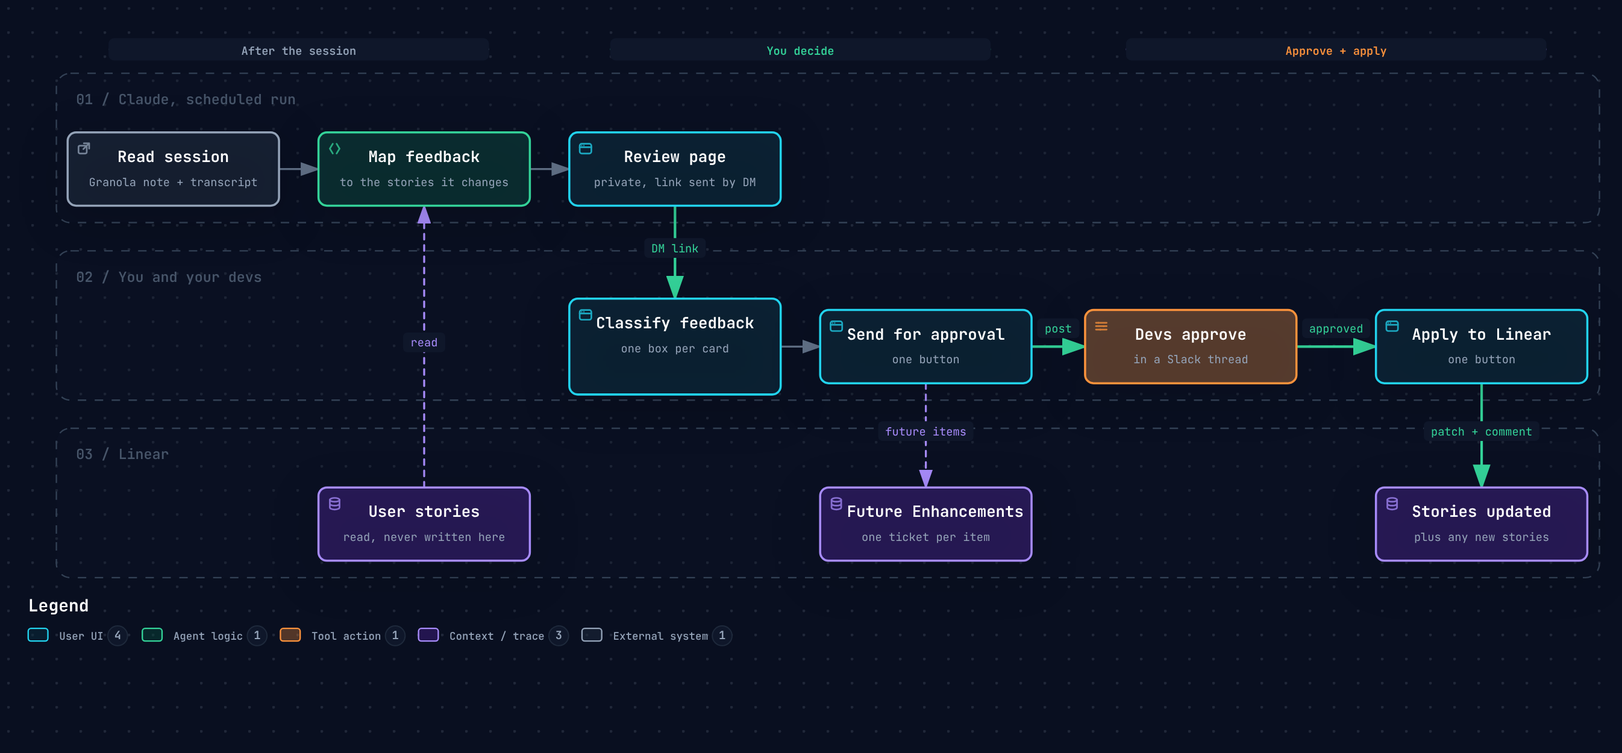
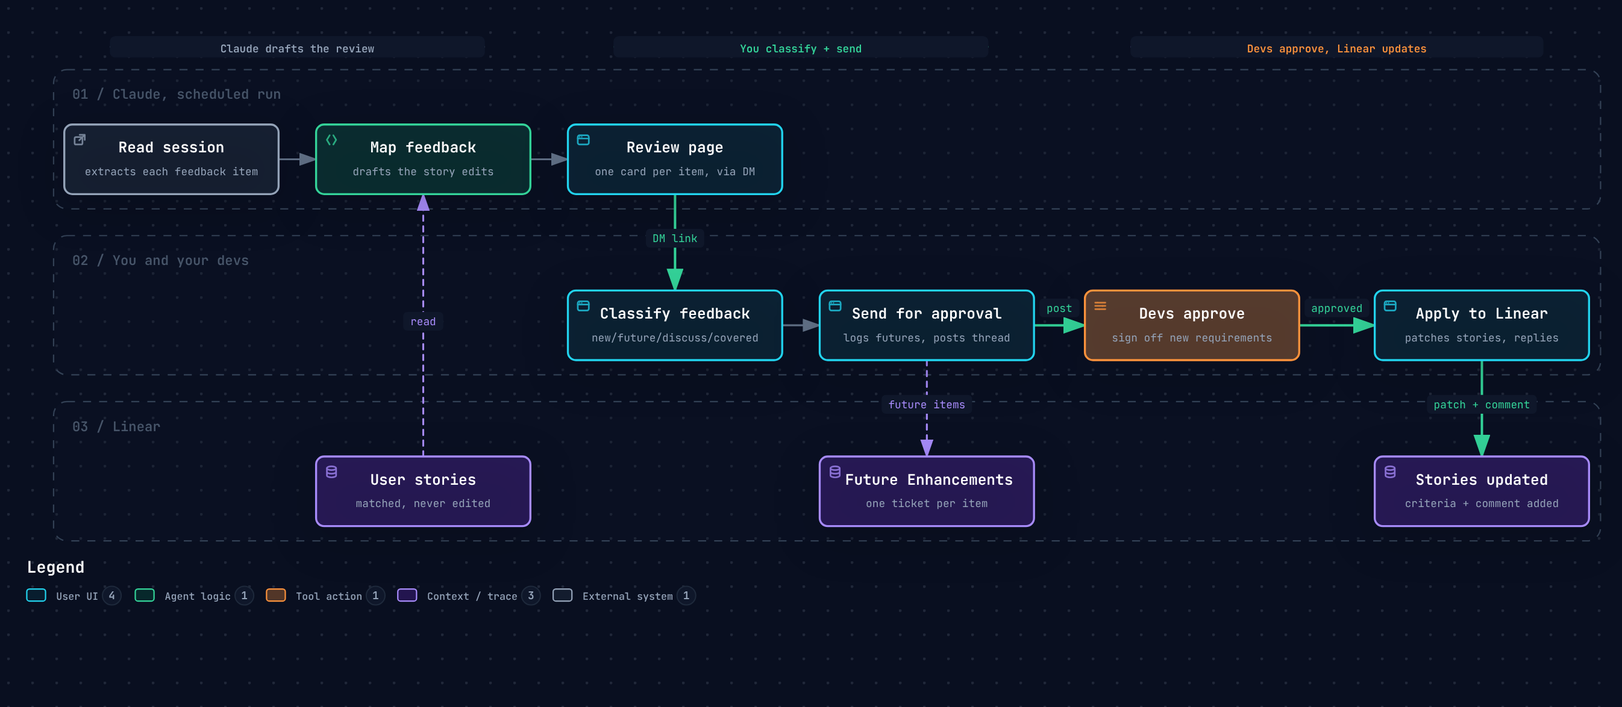
README and diagram: step labels that say what happens
Claude-Session: https://claude.ai/code/session_01LU9MfgfQ5tnmT1qxG3KnMi

diff --git a/docs/flow.html b/docs/flow.html
@@ -4987,7 +4987,7 @@ OTHER DEALINGS IN THE FONT SOFTWARE.
     <!-- Main Diagram -->
     <div class="diagram-container" data-detail-level="read"
          data-preset-badge-editorial-plate="ARCHIFY / PLATE 04">
-      <svg viewBox="0 0 1151 534" data-layout-contract="readable-v2" role="img" lang="en" aria-labelledby="archify-diagram-title archify-diagram-description" data-preset="classic" data-quality-profile="showcase">
+      <svg viewBox="0 0 1211 528" data-layout-contract="readable-v2" role="img" lang="en" aria-labelledby="archify-diagram-title archify-diagram-description" data-preset="classic" data-quality-profile="showcase">
         <title id="archify-diagram-title">feedback-review: one week, one session</title>
         <desc id="archify-diagram-description">A workflow diagram generated by Archify.</desc>
         <!-- Definitions -->
@@ -5013,222 +5013,221 @@ OTHER DEALINGS IN THE FONT SOFTWARE.
         <rect width="100%" height="100%" fill="url(#grid)" />
 
         <!-- Swimlanes -->
-        <rect data-graph-role="structural-frame" data-composition-frame-kind="lane" data-composition-frame-id="lane-0" x="40" y="52" width="1095" height="106" rx="10" class="c-lane" stroke-width="1"/>
+        <rect data-graph-role="structural-frame" data-composition-frame-kind="lane" data-composition-frame-id="lane-0" x="40" y="52" width="1155" height="104" rx="10" class="c-lane" stroke-width="1"/>
         <text x="54" y="74" class="t-dim" font-size="10" font-weight="600">01 / Claude, scheduled run</text>
 
-        <rect data-graph-role="structural-frame" data-composition-frame-kind="lane" data-composition-frame-id="lane-1" x="40" y="178" width="1095" height="106" rx="10" class="c-lane" stroke-width="1"/>
-        <text x="54" y="200" class="t-dim" font-size="10" font-weight="600">02 / You and your devs</text>
+        <rect data-graph-role="structural-frame" data-composition-frame-kind="lane" data-composition-frame-id="lane-1" x="40" y="176" width="1155" height="104" rx="10" class="c-lane" stroke-width="1"/>
+        <text x="54" y="198" class="t-dim" font-size="10" font-weight="600">02 / You and your devs</text>
 
-        <rect data-graph-role="structural-frame" data-composition-frame-kind="lane" data-composition-frame-id="lane-2" x="40" y="304" width="1095" height="106" rx="10" class="c-lane" stroke-width="1"/>
-        <text x="54" y="326" class="t-dim" font-size="10" font-weight="600">03 / Linear</text>
+        <rect data-graph-role="structural-frame" data-composition-frame-kind="lane" data-composition-frame-id="lane-2" x="40" y="300" width="1155" height="104" rx="10" class="c-lane" stroke-width="1"/>
+        <text x="54" y="322" class="t-dim" font-size="10" font-weight="600">03 / Linear</text>
 
         <!-- Phase headers -->
-        <line x1="77" y1="35" x2="347" y2="35" class="a-default" stroke-width="1.1"/>
-        <rect x="77" y="27" width="270" height="16" rx="4" class="c-mask"/>
-        <text x="212" y="39" class="t-muted" font-size="8" font-weight="600" text-anchor="middle">After the session</text>
-        <line x1="433" y1="35" x2="703" y2="35" class="a-emphasis" stroke-width="1.1"/>
-        <rect x="433" y="27" width="270" height="16" rx="4" class="c-mask"/>
-        <text x="568" y="39" class="t-backend" font-size="8" font-weight="600" text-anchor="middle">You decide</text>
-        <line x1="799" y1="35" x2="1097.4" y2="35" class="a-dashed" stroke-width="1.1"/>
-        <rect x="799" y="27" width="298.4000000000001" height="16" rx="4" class="c-mask"/>
-        <text x="948.2" y="39" class="t-messagebus" font-size="8" font-weight="600" text-anchor="middle">Approve + apply</text>
+        <line x1="82" y1="35" x2="362" y2="35" class="a-default" stroke-width="1.1"/>
+        <rect x="82" y="27" width="280" height="16" rx="4" class="c-mask"/>
+        <text x="222" y="39" class="t-muted" font-size="8" font-weight="600" text-anchor="middle">Claude drafts the review</text>
+        <line x1="458" y1="35" x2="738" y2="35" class="a-emphasis" stroke-width="1.1"/>
+        <rect x="458" y="27" width="280" height="16" rx="4" class="c-mask"/>
+        <text x="598" y="39" class="t-backend" font-size="8" font-weight="600" text-anchor="middle">You classify + send</text>
+        <line x1="844" y1="35" x2="1152.4" y2="35" class="a-dashed" stroke-width="1.1"/>
+        <rect x="844" y="27" width="308.4000000000001" height="16" rx="4" class="c-mask"/>
+        <text x="998.2" y="39" class="t-messagebus" font-size="8" font-weight="600" text-anchor="middle">Devs approve, Linear updates</text>
 
         <!-- Workflow groups -->
 
 
         <!-- Edge paths -->
-        <path data-edge-from="apply" data-edge-to="updated" data-edge-label="patch + comment" data-edge-key="0" data-edge-id="apply-updated" data-composition-routing="workflow-v2-auto" data-edge-role="" data-composition-points="1051.4,272;1051.4,346" d="M 1051.4 272 L 1051.4 346" class="a-emphasis" stroke-width="1.8" marker-end="url(#arrowhead-emphasis)"/>
-        <path data-edge-from="classify" data-edge-to="send" data-edge-key="1" data-edge-id="classify-send" data-composition-routing="workflow-v2-auto" data-edge-role="" data-composition-points="554,246;582,246" d="M 554 246 L 582 246" class="a-default" stroke-width="1.4" marker-end="url(#arrowhead)"/>
-        <path data-edge-from="map" data-edge-to="page" data-edge-key="2" data-edge-id="map-page" data-composition-routing="workflow-v2-auto" data-edge-role="" data-composition-points="376,120;404,120" d="M 376 120 L 404 120" class="a-default" stroke-width="1.4" marker-end="url(#arrowhead)"/>
-        <path data-edge-from="page" data-edge-to="classify" data-edge-label="DM link" data-edge-key="3" data-edge-id="page-classify" data-composition-routing="workflow-v2-auto" data-edge-role="" data-composition-points="479,146;479,212" d="M 479 146 L 479 212" class="a-emphasis" stroke-width="1.8" marker-end="url(#arrowhead-emphasis)"/>
-        <path data-edge-from="read" data-edge-to="map" data-edge-key="4" data-edge-id="read-map" data-composition-routing="workflow-v2-auto" data-edge-role="" data-composition-points="198,120;226,120" d="M 198 120 L 226 120" class="a-default" stroke-width="1.4" marker-end="url(#arrowhead)"/>
-        <path data-edge-from="send" data-edge-to="future" data-edge-label="future items" data-edge-key="5" data-edge-id="send-future" data-composition-routing="workflow-v2-auto" data-edge-role="branch" data-composition-points="657,272;657,346" d="M 657 272 L 657 346" class="a-dashed" stroke-width="1.4" marker-end="url(#arrowhead-dashed)"/>
-        <path data-edge-from="send" data-edge-to="thread" data-edge-label="post" data-edge-key="6" data-edge-id="send-thread" data-composition-routing="workflow-v2-auto" data-edge-role="" data-composition-points="732,246;770,246" d="M 732 246 L 770 246" class="a-emphasis" stroke-width="1.8" marker-end="url(#arrowhead-emphasis)"/>
-        <path data-edge-from="stories" data-edge-to="map" data-edge-label="read" data-edge-key="7" data-edge-id="stories-map" data-composition-routing="workflow-v2-auto" data-edge-role="branch" data-composition-points="301,346;301,146" d="M 301 346 L 301 146" class="a-dashed" stroke-width="1.4" marker-end="url(#arrowhead-dashed)"/>
-        <path data-edge-from="thread" data-edge-to="apply" data-edge-label="approved" data-edge-key="8" data-edge-id="thread-apply" data-composition-routing="workflow-v2-auto" data-edge-role="" data-composition-points="920,246;976.4000000000001,246" d="M 920 246 L 976.4000000000001 246" class="a-emphasis" stroke-width="1.8" marker-end="url(#arrowhead-emphasis)"/>
+        <path data-edge-from="apply" data-edge-to="updated" data-edge-label="patch + comment" data-edge-key="0" data-edge-id="apply-updated" data-composition-routing="workflow-v2-auto" data-edge-role="" data-composition-points="1106.4,269;1106.4,341" d="M 1106.4 269 L 1106.4 341" class="a-emphasis" stroke-width="1.8" marker-end="url(#arrowhead-emphasis)"/>
+        <path data-edge-from="classify" data-edge-to="send" data-edge-key="1" data-edge-id="classify-send" data-composition-routing="workflow-v2-auto" data-edge-role="" data-composition-points="584,243;612,243" d="M 584 243 L 612 243" class="a-default" stroke-width="1.4" marker-end="url(#arrowhead)"/>
+        <path data-edge-from="map" data-edge-to="page" data-edge-key="2" data-edge-id="map-page" data-composition-routing="workflow-v2-auto" data-edge-role="" data-composition-points="396,119;424,119" d="M 396 119 L 424 119" class="a-default" stroke-width="1.4" marker-end="url(#arrowhead)"/>
+        <path data-edge-from="page" data-edge-to="classify" data-edge-label="DM link" data-edge-key="3" data-edge-id="page-classify" data-composition-routing="workflow-v2-auto" data-edge-role="" data-composition-points="504,145;504,217" d="M 504 145 L 504 217" class="a-emphasis" stroke-width="1.8" marker-end="url(#arrowhead-emphasis)"/>
+        <path data-edge-from="read" data-edge-to="map" data-edge-key="4" data-edge-id="read-map" data-composition-routing="workflow-v2-auto" data-edge-role="" data-composition-points="208,119;236,119" d="M 208 119 L 236 119" class="a-default" stroke-width="1.4" marker-end="url(#arrowhead)"/>
+        <path data-edge-from="send" data-edge-to="future" data-edge-label="future items" data-edge-key="5" data-edge-id="send-future" data-composition-routing="workflow-v2-auto" data-edge-role="branch" data-composition-points="692,269;692,341" d="M 692 269 L 692 341" class="a-dashed" stroke-width="1.4" marker-end="url(#arrowhead-dashed)"/>
+        <path data-edge-from="send" data-edge-to="thread" data-edge-label="post" data-edge-key="6" data-edge-id="send-thread" data-composition-routing="workflow-v2-auto" data-edge-role="" data-composition-points="772,243;810,243" d="M 772 243 L 810 243" class="a-emphasis" stroke-width="1.8" marker-end="url(#arrowhead-emphasis)"/>
+        <path data-edge-from="stories" data-edge-to="map" data-edge-label="read" data-edge-key="7" data-edge-id="stories-map" data-composition-routing="workflow-v2-auto" data-edge-role="branch" data-composition-points="316,341;316,145" d="M 316 341 L 316 145" class="a-dashed" stroke-width="1.4" marker-end="url(#arrowhead-dashed)"/>
+        <path data-edge-from="thread" data-edge-to="apply" data-edge-label="approved" data-edge-key="8" data-edge-id="thread-apply" data-composition-routing="workflow-v2-auto" data-edge-role="" data-composition-points="970,243;1026.4,243" d="M 970 243 L 1026.4 243" class="a-emphasis" stroke-width="1.8" marker-end="url(#arrowhead-emphasis)"/>
 
         <!-- Nodes -->
-        <g id="node-read" data-node-id="read" data-node-label="Read session" tabindex="0" role="button" aria-label="Focus Read session, Granola note + transcript, Claude, scheduled run › After the session" aria-pressed="false" data-node-kind="external" data-node-sublabel="Granola note + transcript" data-node-context="Claude, scheduled run › After the session">
-          <title>Read session · Granola note + transcript · Claude, scheduled run › After the session</title>
-          <rect x="48" y="94" width="150" height="52" rx="6" class="c-mask"/>
-          <rect x="48" y="94" width="150" height="52" rx="6" class="c-external" stroke-width="1.5"/>
-          <g aria-hidden="true" data-semantic-sigil="external" class="semantic-sigil s-external" transform="translate(54 100) scale(0.6875)">
+        <g id="node-read" data-node-id="read" data-node-label="Read session" tabindex="0" role="button" aria-label="Focus Read session, extracts each feedback item, Claude, scheduled run › Claude drafts the review" aria-pressed="false" data-node-kind="external" data-node-sublabel="extracts each feedback item" data-node-context="Claude, scheduled run › Claude drafts the review">
+          <title>Read session · extracts each feedback item · Claude, scheduled run › Claude drafts the review</title>
+          <rect x="48" y="93" width="160" height="52" rx="6" class="c-mask"/>
+          <rect x="48" y="93" width="160" height="52" rx="6" class="c-external" stroke-width="1.5"/>
+          <g aria-hidden="true" data-semantic-sigil="external" class="semantic-sigil s-external" transform="translate(54 99) scale(0.6875)">
             <rect x="2.5" y="5" width="8.5" height="8" rx="1.5"/>
             <path d="M8 2.5h5.5V8M13.5 2.5 7.5 8.5"/>
           </g>
-          <text data-node-label="" data-detail-anchor="" x="123" y="115" class="t-primary" font-size="11" font-weight="600" text-anchor="middle">Read session</text>
-          <text data-detail="context" x="123" y="132" class="t-muted" font-size="8" text-anchor="middle">Granola note + transcript</text>
+          <text data-node-label="" data-detail-anchor="" x="128" y="114" class="t-primary" font-size="11" font-weight="600" text-anchor="middle">Read session</text>
+          <text data-detail="context" x="128" y="131" class="t-muted" font-size="8" text-anchor="middle">extracts each feedback item</text>
         </g>
 
-        <g id="node-map" data-node-id="map" data-node-label="Map feedback" tabindex="0" role="button" aria-label="Focus Map feedback, to the stories it changes, Claude, scheduled run › After the session" aria-pressed="false" data-node-kind="backend" data-node-sublabel="to the stories it changes" data-node-context="Claude, scheduled run › After the session">
-          <title>Map feedback · to the stories it changes · Claude, scheduled run › After the session</title>
-          <rect x="226" y="94" width="150" height="52" rx="6" class="c-mask"/>
-          <rect x="226" y="94" width="150" height="52" rx="6" class="c-backend" stroke-width="1.5"/>
-          <g aria-hidden="true" data-semantic-sigil="backend" class="semantic-sigil s-backend" transform="translate(232 100) scale(0.6875)">
+        <g id="node-map" data-node-id="map" data-node-label="Map feedback" tabindex="0" role="button" aria-label="Focus Map feedback, drafts the story edits, Claude, scheduled run › Claude drafts the review" aria-pressed="false" data-node-kind="backend" data-node-sublabel="drafts the story edits" data-node-context="Claude, scheduled run › Claude drafts the review">
+          <title>Map feedback · drafts the story edits · Claude, scheduled run › Claude drafts the review</title>
+          <rect x="236" y="93" width="160" height="52" rx="6" class="c-mask"/>
+          <rect x="236" y="93" width="160" height="52" rx="6" class="c-backend" stroke-width="1.5"/>
+          <g aria-hidden="true" data-semantic-sigil="backend" class="semantic-sigil s-backend" transform="translate(242 99) scale(0.6875)">
             <path d="M6 3 3 8l3 5M10 3l3 5-3 5"/>
           </g>
-          <text data-node-label="" data-detail-anchor="" x="301" y="115" class="t-primary" font-size="11" font-weight="600" text-anchor="middle">Map feedback</text>
-          <text data-detail="context" x="301" y="132" class="t-muted" font-size="8" text-anchor="middle">to the stories it changes</text>
+          <text data-node-label="" data-detail-anchor="" x="316" y="114" class="t-primary" font-size="11" font-weight="600" text-anchor="middle">Map feedback</text>
+          <text data-detail="context" x="316" y="131" class="t-muted" font-size="8" text-anchor="middle">drafts the story edits</text>
         </g>
 
-        <g id="node-page" data-node-id="page" data-node-label="Review page" tabindex="0" role="button" aria-label="Focus Review page, private, link sent by DM, Claude, scheduled run › You decide" aria-pressed="false" data-node-kind="frontend" data-node-sublabel="private, link sent by DM" data-node-context="Claude, scheduled run › You decide">
-          <title>Review page · private, link sent by DM · Claude, scheduled run › You decide</title>
-          <rect x="404" y="94" width="150" height="52" rx="6" class="c-mask"/>
-          <rect x="404" y="94" width="150" height="52" rx="6" class="c-frontend" stroke-width="1.5"/>
-          <g aria-hidden="true" data-semantic-sigil="frontend" class="semantic-sigil s-frontend" transform="translate(410 100) scale(0.6875)">
+        <g id="node-page" data-node-id="page" data-node-label="Review page" tabindex="0" role="button" aria-label="Focus Review page, one card per item, via DM, Claude, scheduled run › You classify + send" aria-pressed="false" data-node-kind="frontend" data-node-sublabel="one card per item, via DM" data-node-context="Claude, scheduled run › You classify + send">
+          <title>Review page · one card per item, via DM · Claude, scheduled run › You classify + send</title>
+          <rect x="424" y="93" width="160" height="52" rx="6" class="c-mask"/>
+          <rect x="424" y="93" width="160" height="52" rx="6" class="c-frontend" stroke-width="1.5"/>
+          <g aria-hidden="true" data-semantic-sigil="frontend" class="semantic-sigil s-frontend" transform="translate(430 99) scale(0.6875)">
             <rect x="2" y="3" width="12" height="10" rx="2"/>
             <path d="M2 6.5h12"/>
             <circle cx="4.1" cy="4.8" r=".7" class="sigil-fill"/>
             <circle cx="6.3" cy="4.8" r=".7" class="sigil-fill"/>
           </g>
-          <text data-node-label="" data-detail-anchor="" x="479" y="115" class="t-primary" font-size="11" font-weight="600" text-anchor="middle">Review page</text>
-          <text data-detail="context" x="479" y="132" class="t-muted" font-size="8" text-anchor="middle">private, link sent by DM</text>
+          <text data-node-label="" data-detail-anchor="" x="504" y="114" class="t-primary" font-size="11" font-weight="600" text-anchor="middle">Review page</text>
+          <text data-detail="context" x="504" y="131" class="t-muted" font-size="8" text-anchor="middle">one card per item, via DM</text>
         </g>
 
-        <g id="node-classify" data-node-id="classify" data-node-label="Classify feedback" tabindex="0" role="button" aria-label="Focus Classify feedback, one box per card, You and your devs › You decide" aria-pressed="false" data-node-kind="frontend" data-node-sublabel="one box per card" data-node-tag="4 choices" data-node-context="You and your devs › You decide">
-          <title>Classify feedback · one box per card · You and your devs › You decide · 4 choices</title>
-          <rect x="404" y="212" width="150" height="68" rx="6" class="c-mask"/>
-          <rect x="404" y="212" width="150" height="68" rx="6" class="c-frontend" stroke-width="1.5"/>
-          <g aria-hidden="true" data-semantic-sigil="frontend" class="semantic-sigil s-frontend" transform="translate(410 218) scale(0.6875)">
+        <g id="node-classify" data-node-id="classify" data-node-label="Classify feedback" tabindex="0" role="button" aria-label="Focus Classify feedback, new/future/discuss/covered, You and your devs › You classify + send" aria-pressed="false" data-node-kind="frontend" data-node-sublabel="new/future/discuss/covered" data-node-context="You and your devs › You classify + send">
+          <title>Classify feedback · new/future/discuss/covered · You and your devs › You classify + send</title>
+          <rect x="424" y="217" width="160" height="52" rx="6" class="c-mask"/>
+          <rect x="424" y="217" width="160" height="52" rx="6" class="c-frontend" stroke-width="1.5"/>
+          <g aria-hidden="true" data-semantic-sigil="frontend" class="semantic-sigil s-frontend" transform="translate(430 223) scale(0.6875)">
             <rect x="2" y="3" width="12" height="10" rx="2"/>
             <path d="M2 6.5h12"/>
             <circle cx="4.1" cy="4.8" r=".7" class="sigil-fill"/>
             <circle cx="6.3" cy="4.8" r=".7" class="sigil-fill"/>
           </g>
-          <text data-node-label="" data-detail-anchor="" x="479.1" y="233" class="t-primary" font-size="11" font-weight="600" text-anchor="middle">Classify feedback</text>
-          <text data-detail="context" x="479" y="250" class="t-muted" font-size="8" text-anchor="middle">one box per card</text>
-        <text data-detail="fine" x="479" y="268" class="t-frontend" font-size="7" text-anchor="middle">4 choices</text>
+          <text data-node-label="" data-detail-anchor="" x="504" y="238" class="t-primary" font-size="11" font-weight="600" text-anchor="middle">Classify feedback</text>
+          <text data-detail="context" x="504" y="255" class="t-muted" font-size="8" text-anchor="middle">new/future/discuss/covered</text>
         </g>
 
-        <g id="node-send" data-node-id="send" data-node-label="Send for approval" tabindex="0" role="button" aria-label="Focus Send for approval, one button, You and your devs › You decide" aria-pressed="false" data-node-kind="frontend" data-node-sublabel="one button" data-node-context="You and your devs › You decide">
-          <title>Send for approval · one button · You and your devs › You decide</title>
-          <rect x="582" y="220" width="150" height="52" rx="6" class="c-mask"/>
-          <rect x="582" y="220" width="150" height="52" rx="6" class="c-frontend" stroke-width="1.5"/>
-          <g aria-hidden="true" data-semantic-sigil="frontend" class="semantic-sigil s-frontend" transform="translate(588 226) scale(0.6875)">
+        <g id="node-send" data-node-id="send" data-node-label="Send for approval" tabindex="0" role="button" aria-label="Focus Send for approval, logs futures, posts thread, You and your devs › You classify + send" aria-pressed="false" data-node-kind="frontend" data-node-sublabel="logs futures, posts thread" data-node-context="You and your devs › You classify + send">
+          <title>Send for approval · logs futures, posts thread · You and your devs › You classify + send</title>
+          <rect x="612" y="217" width="160" height="52" rx="6" class="c-mask"/>
+          <rect x="612" y="217" width="160" height="52" rx="6" class="c-frontend" stroke-width="1.5"/>
+          <g aria-hidden="true" data-semantic-sigil="frontend" class="semantic-sigil s-frontend" transform="translate(618 223) scale(0.6875)">
             <rect x="2" y="3" width="12" height="10" rx="2"/>
             <path d="M2 6.5h12"/>
             <circle cx="4.1" cy="4.8" r=".7" class="sigil-fill"/>
             <circle cx="6.3" cy="4.8" r=".7" class="sigil-fill"/>
           </g>
-          <text data-node-label="" data-detail-anchor="" x="657.1" y="241" class="t-primary" font-size="11" font-weight="600" text-anchor="middle">Send for approval</text>
-          <text data-detail="context" x="657" y="258" class="t-muted" font-size="8" text-anchor="middle">one button</text>
+          <text data-node-label="" data-detail-anchor="" x="692" y="238" class="t-primary" font-size="11" font-weight="600" text-anchor="middle">Send for approval</text>
+          <text data-detail="context" x="692" y="255" class="t-muted" font-size="8" text-anchor="middle">logs futures, posts thread</text>
         </g>
 
-        <g id="node-thread" data-node-id="thread" data-node-label="Devs approve" tabindex="0" role="button" aria-label="Focus Devs approve, in a Slack thread, You and your devs › Approve + apply" aria-pressed="false" data-node-kind="messagebus" data-node-sublabel="in a Slack thread" data-node-context="You and your devs › Approve + apply">
-          <title>Devs approve · in a Slack thread · You and your devs › Approve + apply</title>
-          <rect x="770" y="220" width="150" height="52" rx="6" class="c-mask"/>
-          <rect x="770" y="220" width="150" height="52" rx="6" class="c-messagebus" stroke-width="1.5"/>
-          <g aria-hidden="true" data-semantic-sigil="messagebus" class="semantic-sigil s-messagebus" transform="translate(776 226) scale(0.6875)">
+        <g id="node-thread" data-node-id="thread" data-node-label="Devs approve" tabindex="0" role="button" aria-label="Focus Devs approve, sign off new requirements, You and your devs › Devs approve, Linear updates" aria-pressed="false" data-node-kind="messagebus" data-node-sublabel="sign off new requirements" data-node-context="You and your devs › Devs approve, Linear updates">
+          <title>Devs approve · sign off new requirements · You and your devs › Devs approve, Linear updates</title>
+          <rect x="810" y="217" width="160" height="52" rx="6" class="c-mask"/>
+          <rect x="810" y="217" width="160" height="52" rx="6" class="c-messagebus" stroke-width="1.5"/>
+          <g aria-hidden="true" data-semantic-sigil="messagebus" class="semantic-sigil s-messagebus" transform="translate(816 223) scale(0.6875)">
             <path d="M2.5 4.5h11M2.5 8h11M2.5 11.5h11"/>
             <circle cx="5" cy="4.5" r="1" class="sigil-fill"/>
             <circle cx="10.5" cy="8" r="1" class="sigil-fill"/>
             <circle cx="7" cy="11.5" r="1" class="sigil-fill"/>
           </g>
-          <text data-node-label="" data-detail-anchor="" x="845" y="241" class="t-primary" font-size="11" font-weight="600" text-anchor="middle">Devs approve</text>
-          <text data-detail="context" x="845" y="258" class="t-muted" font-size="8" text-anchor="middle">in a Slack thread</text>
+          <text data-node-label="" data-detail-anchor="" x="890" y="238" class="t-primary" font-size="11" font-weight="600" text-anchor="middle">Devs approve</text>
+          <text data-detail="context" x="890" y="255" class="t-muted" font-size="8" text-anchor="middle">sign off new requirements</text>
         </g>
 
-        <g id="node-apply" data-node-id="apply" data-node-label="Apply to Linear" tabindex="0" role="button" aria-label="Focus Apply to Linear, one button, You and your devs › Approve + apply" aria-pressed="false" data-node-kind="frontend" data-node-sublabel="one button" data-node-context="You and your devs › Approve + apply">
-          <title>Apply to Linear · one button · You and your devs › Approve + apply</title>
-          <rect x="976.4000000000001" y="220" width="150" height="52" rx="6" class="c-mask"/>
-          <rect x="976.4000000000001" y="220" width="150" height="52" rx="6" class="c-frontend" stroke-width="1.5"/>
-          <g aria-hidden="true" data-semantic-sigil="frontend" class="semantic-sigil s-frontend" transform="translate(982.4000000000001 226) scale(0.6875)">
+        <g id="node-apply" data-node-id="apply" data-node-label="Apply to Linear" tabindex="0" role="button" aria-label="Focus Apply to Linear, patches stories, replies, You and your devs › Devs approve, Linear updates" aria-pressed="false" data-node-kind="frontend" data-node-sublabel="patches stories, replies" data-node-context="You and your devs › Devs approve, Linear updates">
+          <title>Apply to Linear · patches stories, replies · You and your devs › Devs approve, Linear updates</title>
+          <rect x="1026.4" y="217" width="160" height="52" rx="6" class="c-mask"/>
+          <rect x="1026.4" y="217" width="160" height="52" rx="6" class="c-frontend" stroke-width="1.5"/>
+          <g aria-hidden="true" data-semantic-sigil="frontend" class="semantic-sigil s-frontend" transform="translate(1032.4 223) scale(0.6875)">
             <rect x="2" y="3" width="12" height="10" rx="2"/>
             <path d="M2 6.5h12"/>
             <circle cx="4.1" cy="4.8" r=".7" class="sigil-fill"/>
             <circle cx="6.3" cy="4.8" r=".7" class="sigil-fill"/>
           </g>
-          <text data-node-label="" data-detail-anchor="" x="1051.4" y="241" class="t-primary" font-size="11" font-weight="600" text-anchor="middle">Apply to Linear</text>
-          <text data-detail="context" x="1051.4" y="258" class="t-muted" font-size="8" text-anchor="middle">one button</text>
+          <text data-node-label="" data-detail-anchor="" x="1106.4" y="238" class="t-primary" font-size="11" font-weight="600" text-anchor="middle">Apply to Linear</text>
+          <text data-detail="context" x="1106.4" y="255" class="t-muted" font-size="8" text-anchor="middle">patches stories, replies</text>
         </g>
 
-        <g id="node-stories" data-node-id="stories" data-node-label="User stories" tabindex="0" role="button" aria-label="Focus User stories, read, never written here, Linear › After the session" aria-pressed="false" data-node-kind="database" data-node-sublabel="read, never written here" data-node-context="Linear › After the session">
-          <title>User stories · read, never written here · Linear › After the session</title>
-          <rect x="226" y="346" width="150" height="52" rx="6" class="c-mask"/>
-          <rect x="226" y="346" width="150" height="52" rx="6" class="c-database" stroke-width="1.5"/>
-          <g aria-hidden="true" data-semantic-sigil="database" class="semantic-sigil s-database" transform="translate(232 352) scale(0.6875)">
+        <g id="node-stories" data-node-id="stories" data-node-label="User stories" tabindex="0" role="button" aria-label="Focus User stories, matched, never edited, Linear › Claude drafts the review" aria-pressed="false" data-node-kind="database" data-node-sublabel="matched, never edited" data-node-context="Linear › Claude drafts the review">
+          <title>User stories · matched, never edited · Linear › Claude drafts the review</title>
+          <rect x="236" y="341" width="160" height="52" rx="6" class="c-mask"/>
+          <rect x="236" y="341" width="160" height="52" rx="6" class="c-database" stroke-width="1.5"/>
+          <g aria-hidden="true" data-semantic-sigil="database" class="semantic-sigil s-database" transform="translate(242 347) scale(0.6875)">
             <ellipse cx="8" cy="4" rx="5" ry="2"/>
             <path d="M3 4v8c0 1.1 2.2 2 5 2s5-.9 5-2V4M3 8c0 1.1 2.2 2 5 2s5-.9 5-2"/>
           </g>
-          <text data-node-label="" data-detail-anchor="" x="301" y="367" class="t-primary" font-size="11" font-weight="600" text-anchor="middle">User stories</text>
-          <text data-detail="context" x="301" y="384" class="t-muted" font-size="8" text-anchor="middle">read, never written here</text>
+          <text data-node-label="" data-detail-anchor="" x="316" y="362" class="t-primary" font-size="11" font-weight="600" text-anchor="middle">User stories</text>
+          <text data-detail="context" x="316" y="379" class="t-muted" font-size="8" text-anchor="middle">matched, never edited</text>
         </g>
 
-        <g id="node-future" data-node-id="future" data-node-label="Future Enhancements" tabindex="0" role="button" aria-label="Focus Future Enhancements, one ticket per item, Linear › You decide" aria-pressed="false" data-node-kind="database" data-node-sublabel="one ticket per item" data-node-context="Linear › You decide">
-          <title>Future Enhancements · one ticket per item · Linear › You decide</title>
-          <rect x="582" y="346" width="150" height="52" rx="6" class="c-mask"/>
-          <rect x="582" y="346" width="150" height="52" rx="6" class="c-database" stroke-width="1.5"/>
-          <g aria-hidden="true" data-semantic-sigil="database" class="semantic-sigil s-database" transform="translate(588 352) scale(0.6875)">
+        <g id="node-future" data-node-id="future" data-node-label="Future Enhancements" tabindex="0" role="button" aria-label="Focus Future Enhancements, one ticket per item, Linear › You classify + send" aria-pressed="false" data-node-kind="database" data-node-sublabel="one ticket per item" data-node-context="Linear › You classify + send">
+          <title>Future Enhancements · one ticket per item · Linear › You classify + send</title>
+          <rect x="612" y="341" width="160" height="52" rx="6" class="c-mask"/>
+          <rect x="612" y="341" width="160" height="52" rx="6" class="c-database" stroke-width="1.5"/>
+          <g aria-hidden="true" data-semantic-sigil="database" class="semantic-sigil s-database" transform="translate(618 347) scale(0.6875)">
             <ellipse cx="8" cy="4" rx="5" ry="2"/>
             <path d="M3 4v8c0 1.1 2.2 2 5 2s5-.9 5-2V4M3 8c0 1.1 2.2 2 5 2s5-.9 5-2"/>
           </g>
-          <text data-node-label="" data-detail-anchor="" x="663.7" y="367" class="t-primary" font-size="11" font-weight="600" text-anchor="middle">Future Enhancements</text>
-          <text data-detail="context" x="657" y="384" class="t-muted" font-size="8" text-anchor="middle">one ticket per item</text>
+          <text data-node-label="" data-detail-anchor="" x="693.7" y="362" class="t-primary" font-size="11" font-weight="600" text-anchor="middle">Future Enhancements</text>
+          <text data-detail="context" x="692" y="379" class="t-muted" font-size="8" text-anchor="middle">one ticket per item</text>
         </g>
 
-        <g id="node-updated" data-node-id="updated" data-node-label="Stories updated" tabindex="0" role="button" aria-label="Focus Stories updated, plus any new stories, Linear › Approve + apply" aria-pressed="false" data-node-kind="database" data-node-sublabel="plus any new stories" data-node-context="Linear › Approve + apply">
-          <title>Stories updated · plus any new stories · Linear › Approve + apply</title>
-          <rect x="976.4000000000001" y="346" width="150" height="52" rx="6" class="c-mask"/>
-          <rect x="976.4000000000001" y="346" width="150" height="52" rx="6" class="c-database" stroke-width="1.5"/>
-          <g aria-hidden="true" data-semantic-sigil="database" class="semantic-sigil s-database" transform="translate(982.4000000000001 352) scale(0.6875)">
+        <g id="node-updated" data-node-id="updated" data-node-label="Stories updated" tabindex="0" role="button" aria-label="Focus Stories updated, criteria + comment added, Linear › Devs approve, Linear updates" aria-pressed="false" data-node-kind="database" data-node-sublabel="criteria + comment added" data-node-context="Linear › Devs approve, Linear updates">
+          <title>Stories updated · criteria + comment added · Linear › Devs approve, Linear updates</title>
+          <rect x="1026.4" y="341" width="160" height="52" rx="6" class="c-mask"/>
+          <rect x="1026.4" y="341" width="160" height="52" rx="6" class="c-database" stroke-width="1.5"/>
+          <g aria-hidden="true" data-semantic-sigil="database" class="semantic-sigil s-database" transform="translate(1032.4 347) scale(0.6875)">
             <ellipse cx="8" cy="4" rx="5" ry="2"/>
             <path d="M3 4v8c0 1.1 2.2 2 5 2s5-.9 5-2V4M3 8c0 1.1 2.2 2 5 2s5-.9 5-2"/>
           </g>
-          <text data-node-label="" data-detail-anchor="" x="1051.4" y="367" class="t-primary" font-size="11" font-weight="600" text-anchor="middle">Stories updated</text>
-          <text data-detail="context" x="1051.4" y="384" class="t-muted" font-size="8" text-anchor="middle">plus any new stories</text>
+          <text data-node-label="" data-detail-anchor="" x="1106.4" y="362" class="t-primary" font-size="11" font-weight="600" text-anchor="middle">Stories updated</text>
+          <text data-detail="context" x="1106.4" y="379" class="t-muted" font-size="8" text-anchor="middle">criteria + comment added</text>
         </g>
 
         <!-- Edge labels -->
         <g data-detail="context" data-edge-from="apply" data-edge-to="updated" data-edge-label="patch + comment" data-edge-key="0" data-edge-id="apply-updated">
-          <rect x="1010.4000000000001" y="299" width="82" height="14" rx="3" class="c-mask"/>
-          <text x="1051.4" y="309" class="t-edge-emphasis" font-size="8" text-anchor="middle">patch + comment</text>
+          <rect x="1065.4" y="295" width="82" height="14" rx="3" class="c-mask"/>
+          <text x="1106.4" y="305" class="t-edge-emphasis" font-size="8" text-anchor="middle">patch + comment</text>
         </g>
 
 
         <g data-detail="context" data-edge-from="page" data-edge-to="classify" data-edge-label="DM link" data-edge-key="3" data-edge-id="page-classify">
-          <rect x="457.2" y="169" width="43.6" height="14" rx="3" class="c-mask"/>
-          <text x="479" y="179" class="t-edge-emphasis" font-size="8" text-anchor="middle">DM link</text>
+          <rect x="482.2" y="171" width="43.6" height="14" rx="3" class="c-mask"/>
+          <text x="504" y="181" class="t-edge-emphasis" font-size="8" text-anchor="middle">DM link</text>
         </g>
 
         <g data-detail="context" data-edge-from="send" data-edge-to="future" data-edge-label="future items" data-edge-key="5" data-edge-id="send-future">
-          <rect x="623.2" y="299" width="67.6" height="14" rx="3" class="c-mask"/>
-          <text x="657" y="309" class="t-edge-dashed" font-size="8" text-anchor="middle">future items</text>
+          <rect x="658.2" y="295" width="67.6" height="14" rx="3" class="c-mask"/>
+          <text x="692" y="305" class="t-edge-dashed" font-size="8" text-anchor="middle">future items</text>
         </g>
         <g data-detail="context" data-edge-from="send" data-edge-to="thread" data-edge-label="post" data-edge-key="6" data-edge-id="send-thread">
-          <rect x="736" y="226" width="30" height="14" rx="3" class="c-mask"/>
-          <text x="751" y="236" class="t-edge-emphasis" font-size="8" text-anchor="middle">post</text>
+          <rect x="776" y="223" width="30" height="14" rx="3" class="c-mask"/>
+          <text x="791" y="233" class="t-edge-emphasis" font-size="8" text-anchor="middle">post</text>
         </g>
         <g data-detail="context" data-edge-from="stories" data-edge-to="map" data-edge-label="read" data-edge-key="7" data-edge-id="stories-map">
-          <rect x="286" y="236" width="30" height="14" rx="3" class="c-mask"/>
-          <text x="301" y="246" class="t-edge-dashed" font-size="8" text-anchor="middle">read</text>
+          <rect x="301" y="233" width="30" height="14" rx="3" class="c-mask"/>
+          <text x="316" y="243" class="t-edge-dashed" font-size="8" text-anchor="middle">read</text>
         </g>
         <g data-detail="context" data-edge-from="thread" data-edge-to="apply" data-edge-label="approved" data-edge-key="8" data-edge-id="thread-apply">
-          <rect x="924" y="226" width="48.4" height="14" rx="3" class="c-mask"/>
-          <text x="948.2" y="236" class="t-edge-emphasis" font-size="8" text-anchor="middle">approved</text>
+          <rect x="974" y="223" width="48.4" height="14" rx="3" class="c-mask"/>
+          <text x="998.2" y="233" class="t-edge-emphasis" font-size="8" text-anchor="middle">approved</text>
         </g>
 
         <!-- Legend -->
         <g data-legend="" data-legend-bridge="">
-          <text x="20" y="434" class="t-primary" font-size="12" font-weight="650">Legend</text>
-          <g data-legend-semantic-kind="frontend" data-legend-kind="frontend" data-legend-label="User UI" data-legend-x="20" data-legend-baseline="454" data-legend-width="74">
-            <rect x="20" y="446" width="14" height="9" rx="2" class="c-frontend" stroke-width="1"/>
-            <text x="42" y="454" class="t-muted" font-size="7.5" font-weight="500">User UI</text>
+          <text x="20" y="428" class="t-primary" font-size="12" font-weight="650">Legend</text>
+          <g data-legend-semantic-kind="frontend" data-legend-kind="frontend" data-legend-label="User UI" data-legend-x="20" data-legend-baseline="448" data-legend-width="74">
+            <rect x="20" y="440" width="14" height="9" rx="2" class="c-frontend" stroke-width="1"/>
+            <text x="42" y="448" class="t-muted" font-size="7.5" font-weight="500">User UI</text>
           </g>
-          <g data-legend-semantic-kind="backend" data-legend-kind="backend" data-legend-label="Agent logic" data-legend-x="101" data-legend-baseline="454" data-legend-width="91">
-            <rect x="101" y="446" width="14" height="9" rx="2" class="c-backend" stroke-width="1"/>
-            <text x="123" y="454" class="t-muted" font-size="7.5" font-weight="500">Agent logic</text>
+          <g data-legend-semantic-kind="backend" data-legend-kind="backend" data-legend-label="Agent logic" data-legend-x="101" data-legend-baseline="448" data-legend-width="91">
+            <rect x="101" y="440" width="14" height="9" rx="2" class="c-backend" stroke-width="1"/>
+            <text x="123" y="448" class="t-muted" font-size="7.5" font-weight="500">Agent logic</text>
           </g>
-          <g data-legend-semantic-kind="messagebus" data-legend-kind="messagebus" data-legend-label="Tool action" data-legend-x="199" data-legend-baseline="454" data-legend-width="91">
-            <rect x="199" y="446" width="14" height="9" rx="2" class="c-messagebus" stroke-width="1"/>
-            <text x="221" y="454" class="t-muted" font-size="7.5" font-weight="500">Tool action</text>
+          <g data-legend-semantic-kind="messagebus" data-legend-kind="messagebus" data-legend-label="Tool action" data-legend-x="199" data-legend-baseline="448" data-legend-width="91">
+            <rect x="199" y="440" width="14" height="9" rx="2" class="c-messagebus" stroke-width="1"/>
+            <text x="221" y="448" class="t-muted" font-size="7.5" font-weight="500">Tool action</text>
           </g>
-          <g data-legend-semantic-kind="database" data-legend-kind="database" data-legend-label="Context / trace" data-legend-x="297" data-legend-baseline="454" data-legend-width="109">
-            <rect x="297" y="446" width="14" height="9" rx="2" class="c-database" stroke-width="1"/>
-            <text x="319" y="454" class="t-muted" font-size="7.5" font-weight="500">Context / trace</text>
+          <g data-legend-semantic-kind="database" data-legend-kind="database" data-legend-label="Context / trace" data-legend-x="297" data-legend-baseline="448" data-legend-width="109">
+            <rect x="297" y="440" width="14" height="9" rx="2" class="c-database" stroke-width="1"/>
+            <text x="319" y="448" class="t-muted" font-size="7.5" font-weight="500">Context / trace</text>
           </g>
-          <g data-legend-semantic-kind="external" data-legend-kind="external" data-legend-label="External system" data-legend-x="413" data-legend-baseline="454" data-legend-width="109">
-            <rect x="413" y="446" width="14" height="9" rx="2" class="c-external" stroke-width="1"/>
-            <text x="435" y="454" class="t-muted" font-size="7.5" font-weight="500">External system</text>
+          <g data-legend-semantic-kind="external" data-legend-kind="external" data-legend-label="External system" data-legend-x="413" data-legend-baseline="448" data-legend-width="109">
+            <rect x="413" y="440" width="14" height="9" rx="2" class="c-external" stroke-width="1"/>
+            <text x="435" y="448" class="t-muted" font-size="7.5" font-weight="500">External system</text>
           </g>
         </g>
       </svg>

diff --git a/README.md b/README.md
@@ -65,16 +65,16 @@ Then ask Claude to "set up the feedback review".
 <p align="center">
   <picture>
     <source media="(prefers-color-scheme: dark)" srcset="docs/flow-dark.png">
-    <img src="docs/flow-light.png" alt="Flow: Claude reads the Granola session, maps feedback to Linear stories and publishes a review page. You classify feedback and send for approval. Devs approve in Slack. Applying patches the stories; future enhancements become tickets in their own milestone." width="900">
+    <img src="docs/flow-light.png" alt="Flow: Claude drafts the review from the Granola session and your Linear stories. You classify each piece of feedback and send. Devs approve new requirements in Slack, then Linear updates; future enhancements become tickets in their own milestone." width="900">
   </picture>
 </p>
 
 <p align="center"><sub>Drawn with <a href="https://github.com/tt-a1i/archify">Archify</a>. Download <a href="docs/flow.html">docs/flow.html</a> for the interactive version.</sub></p>
 
-1. **After the session**, the scheduled run reads the Granola note and transcript, pulls out each piece of feedback, and maps it to the stories it would change. It publishes a private review page and DMs you the link.
-2. **You decide.** One box per piece of feedback. You can't send until everything is classified.
-3. **Send for approval.** Future enhancements get logged in Linear. The project channel gets one post listing every group, and your devs are asked to approve only the new requirements.
-4. **Apply.** Once they approve, one button patches the stories in Linear, comments on each one, creates any new stories, and replies in the thread.
+1. **Claude drafts the review for you.** After the session, the scheduled run reads the Granola note and transcript, pulls out each piece of feedback, and drafts the story edits each one would need. You get a DM with a link to a private review page.
+2. **You make one call per piece of feedback, not per story edit.** Tick one of the four boxes on each card. The page won't send until every card has one.
+3. **Devs only review what's new.** Sending logs future enhancements in Linear and posts one Slack thread listing every group. Your devs are asked to approve the new requirements and nothing else.
+4. **Linear updates in one click after approval.** The page patches each approved story, leaves a comment saying what changed and who approved it, creates any new stories, and replies in the thread.
 
 ## 🗳 The four boxes
 
